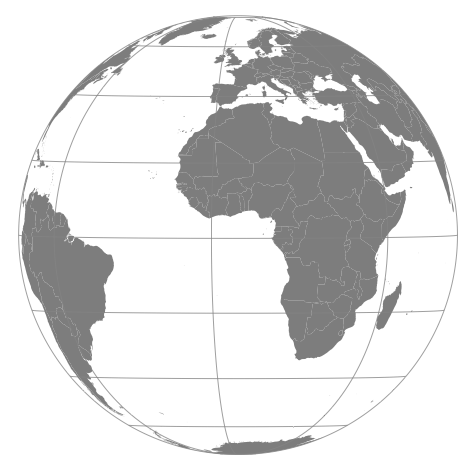
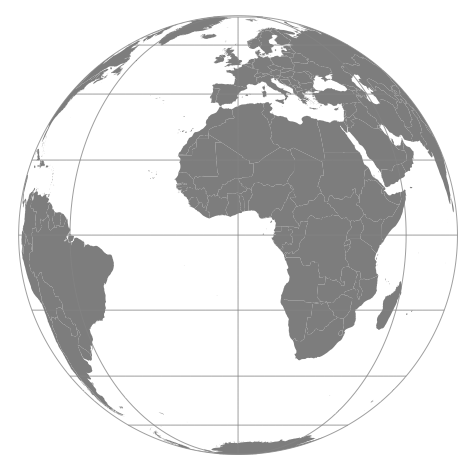
Update readme figures

diff --git a/README.md b/README.md
@@ -74,9 +74,6 @@ world <- orthomap()
 ![figure-2](img/figure-2.png)
 
 ```r
-### World orthographic map centered on Sao Tome and Principe
-world <- orthomap(query = "Sao Tome and Principe")
-
 ### Class of the object returned
 class(world)
 # [1] "SpatialPolygons"
@@ -85,24 +82,30 @@ class(world)
 
 ### Number of polygons
 length(world)
-# [1] 833
+# [1] 816
+```
+
+```r
+### World map centered on the South Pole without grid
+world <- orthomap(query = "South Georgia")
 ```
 
 ![figure-3](img/figure-3.png)
 
 ```r
-### World map centered on the South Pole without grid
-world <- orthomap(query = "South Georgia", grid = FALSE)
+### World map with customized graphical parameters
+world <- orthomap(
+  centre     = c(20, 60),
+  fill       = c("#0868ac", "#016c59", "#b30000", "#ae017e", "#bf812d"),
+  nx         = 20,
+  ny         = 20,
+  grid.color = "#c2c2c2",
+  mar        = rep(0, 4),
+  bg         = "#aaaaaa"
+)
 ```
 
 ![figure-4](img/figure-4.png)
-
-```r
-### World map with customized graphical parameters
-world <- orthomap(centre = c(10, -65), mar = rep(0, 4), bg = "black")
-```
-
-![figure-5](img/figure-5.png)
 
 ```r
 ### To customize other graphical parameters, see:
